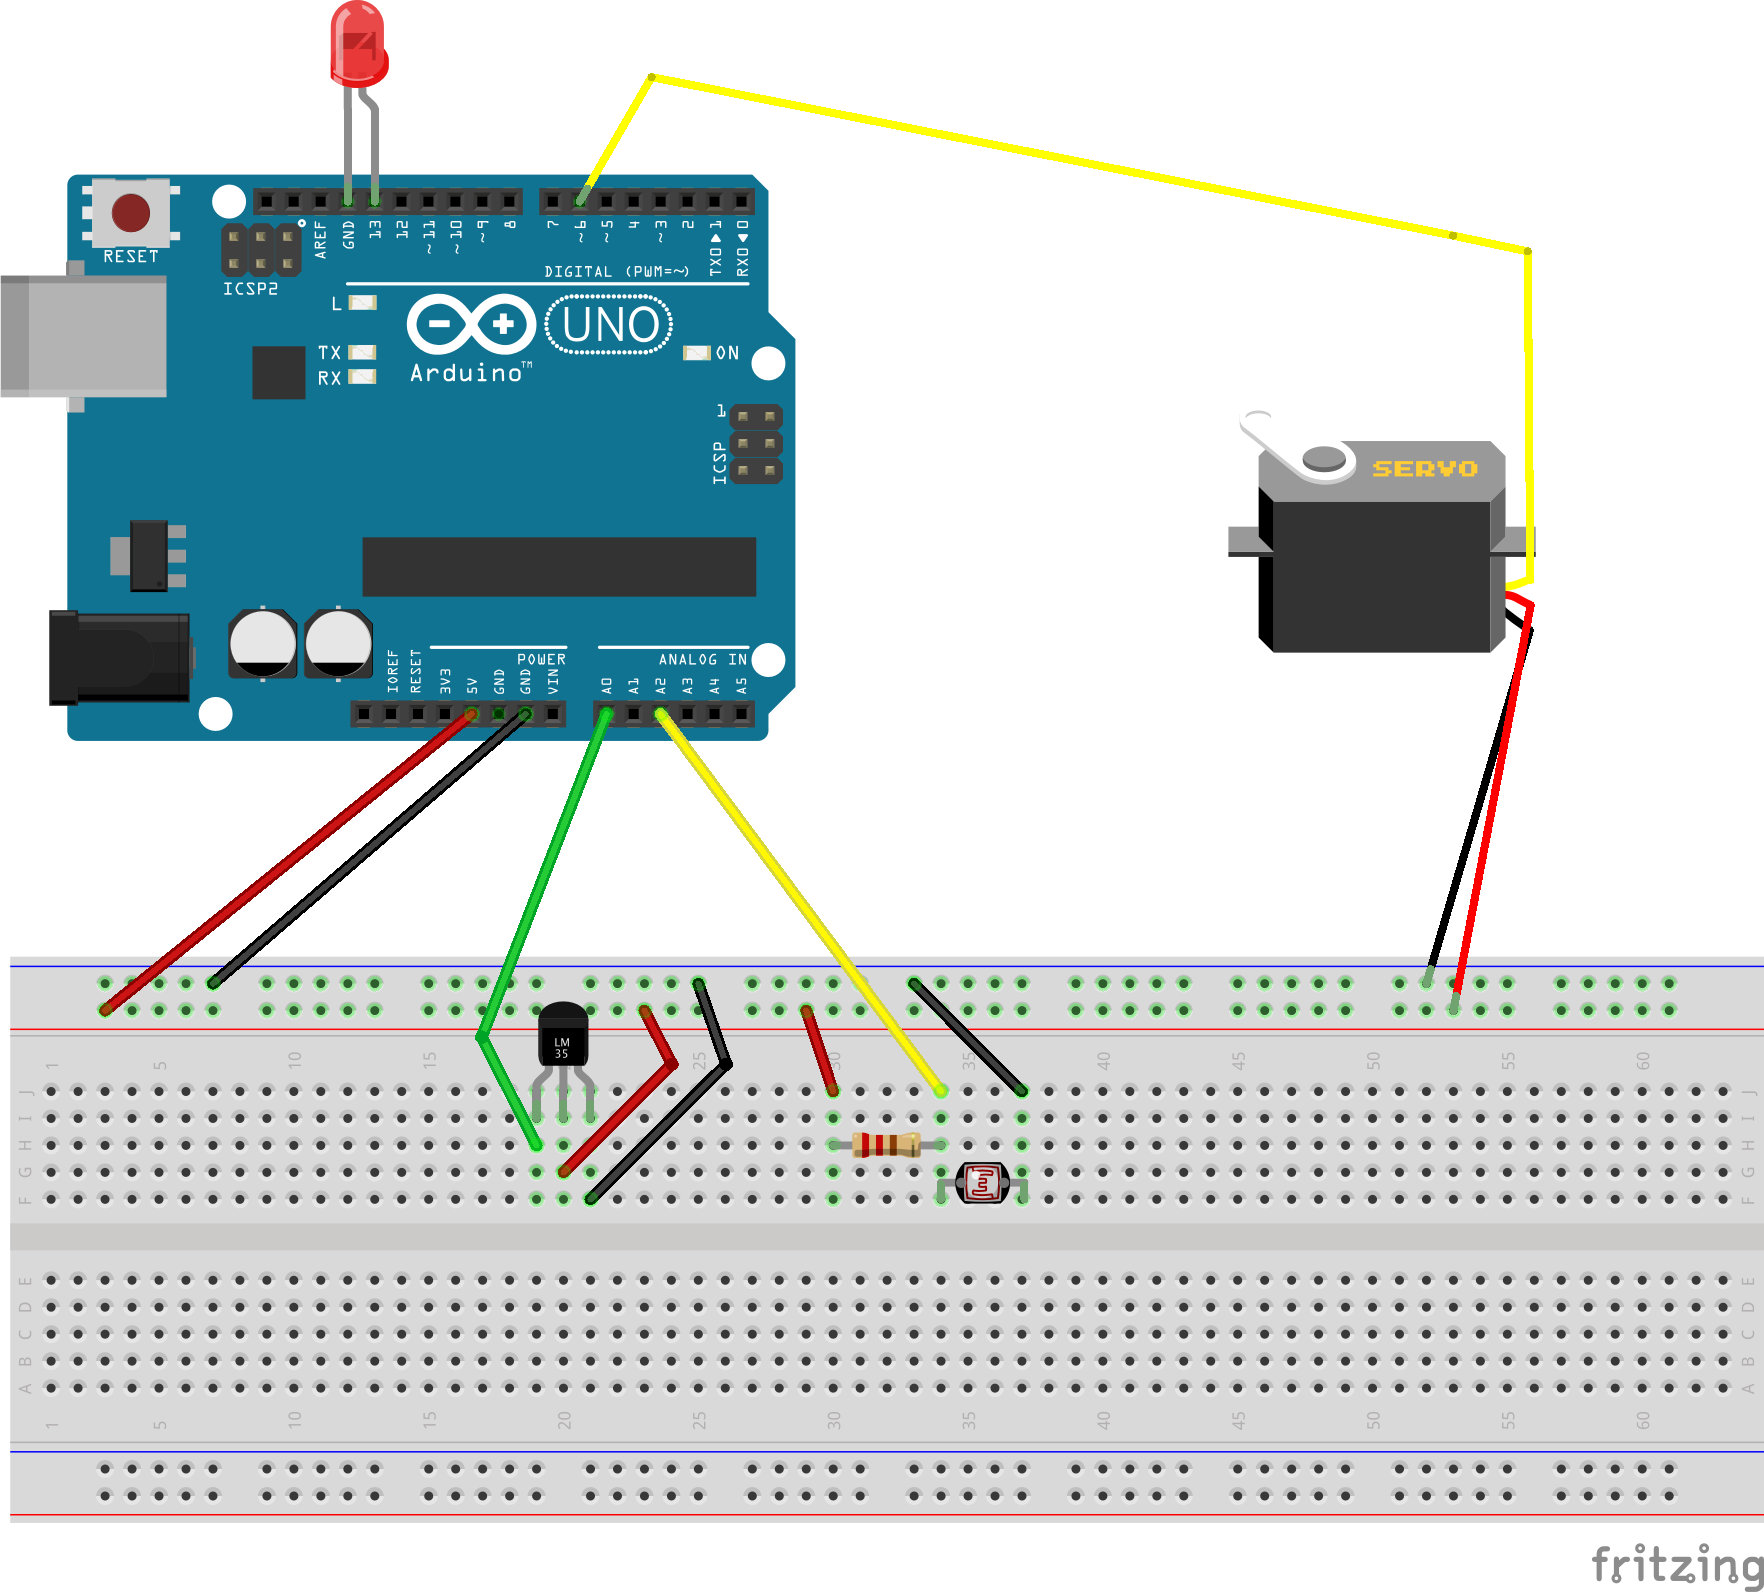
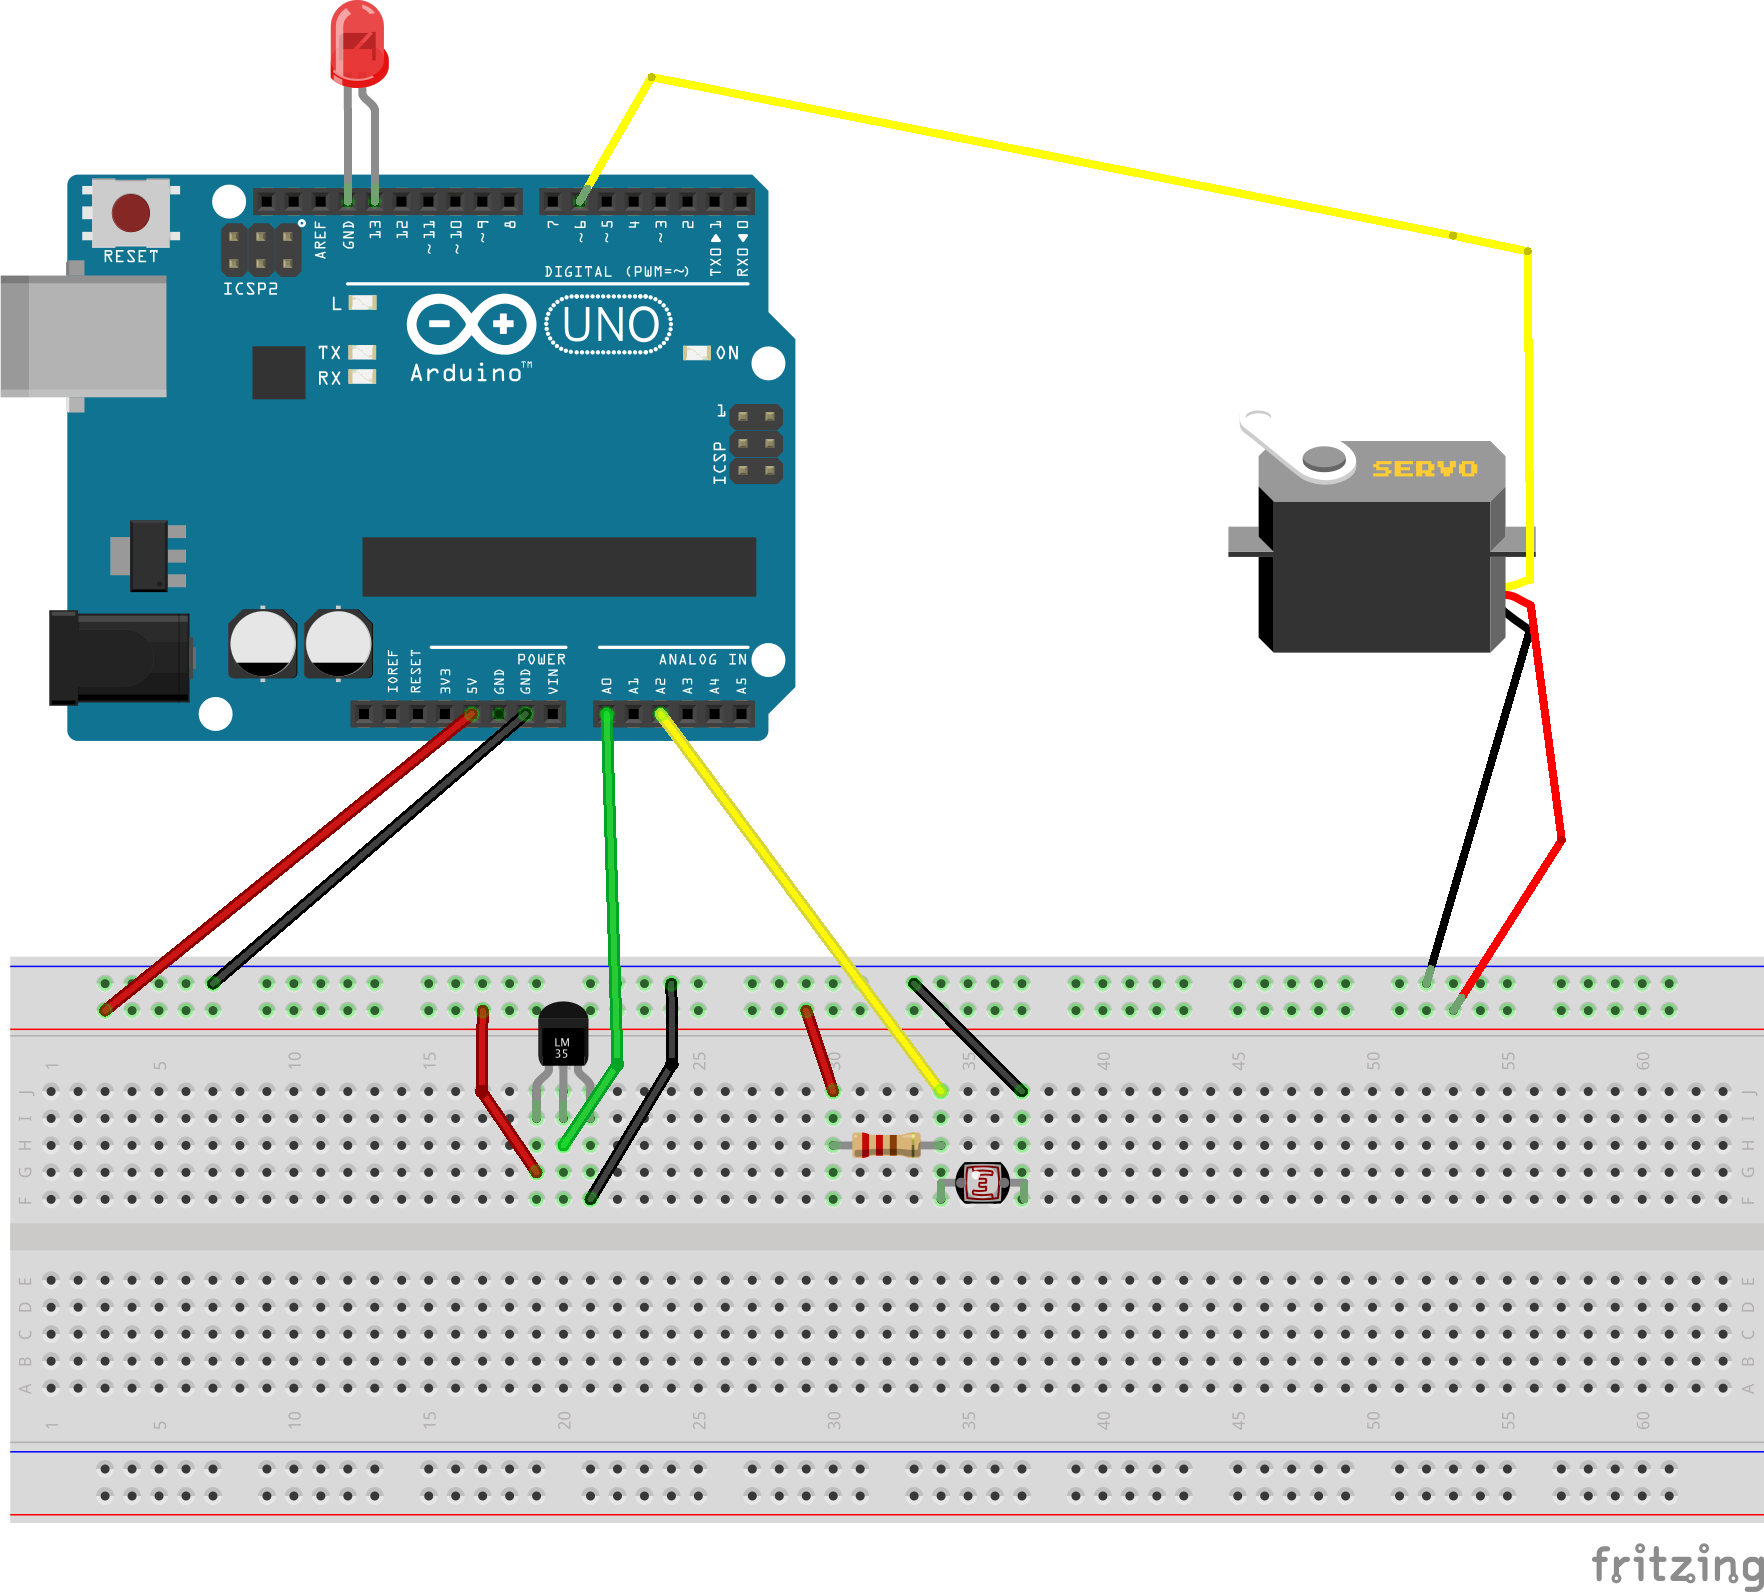
Fixing LM35 schematic. Improving error handling, so that the node app doesn't die when the board is plugged off.

Changed region(s): [[0.2494, 0.4614, 0.4365, 0.7382], [0.8418, 0.3691, 0.9042, 0.5537], [0.8107, 0.5229, 0.873, 0.646]]

diff --git a/driver/things-driver.js b/driver/things-driver.js
@@ -26,131 +26,138 @@ var pubnub = require("pubnub")({
  */
 board.on("ready", function() {
 
-	/*
-	 * Initialise Servo and listen to messages from the servo_channel.
-	 * 
-	 * The agreed message format within the channel is { "action": "turn",
-	 * "angle": 180 }
-	 */
-	var servo = new five.Servo({
-		id : "MyServo",
-		pin : 6,
-		type : "standard",
-		range : [ 0, 180 ],
-		fps : 100,
-		invert : false,
-		startAt : 0,
-		center : true,
-		specs : {
-			speed : five.Servo.Continuous.speeds["@5.0V"]
-		}
-	});
+	try {
 
-	console.log("Subscribing to servo_channel");
-	pubnub.subscribe({
-		channel : "servo_channel",
-		callback : function(message) {
-			console.log("Message >>", message);
-			try {
+		console.log("Starting up ... ");
 
-				// Stop whatever the servo is doing at the moment.
-				servo.stop();
-
-				if (message.action == 'turn') {
-					servo.to(message.angle);
-				}
-
-				if (message.action == 'sweep') {
-					servo.sweep();
-				}
-
-			} catch (e) {
-				console.log("Error: ", e);
-			}
-
-		}
-	});
-
-	/*
-	 * Initialise Thermometer.
-	 * 
-	 * When the sensor emits data, publish to the sensor message channel.
-	 * 
-	 * The agreed message format is { "data" : " XX°C, YYY°F" }
-	 */
-	var thermometer = new five.Thermometer({
-		pin : "A0",
-		controler : "LM35",
-		freq : 2000
-	});
-
-	thermometer.on("data", function() {
-		console.log("Thermometer : " + this.celsius + "°C", this.fahrenheit
-				+ "°F");
-
-		var message = {
-			"data" : this.celsius + "°C, " + this.fahrenheit + "°F"
-		};
-		pubnub.publish({
-			channel : 'thermometer_channel',
-			message : message,
-			error : function(e) {
-				console.log("Failed to publish sensor data.", e);
+		/*
+		 * Initialise Servo and listen to messages from the servo_channel.
+		 * 
+		 * The agreed message format within the channel is { "action": "turn",
+		 * "angle": 180 }
+		 */
+		var servo = new five.Servo({
+			id : "MyServo",
+			pin : 6,
+			type : "standard",
+			range : [ 0, 180 ],
+			fps : 100,
+			invert : false,
+			startAt : 0,
+			center : true,
+			specs : {
+				speed : five.Servo.Continuous.speeds["@5.0V"]
 			}
 		});
-	});
 
-	/*
-	 * Initialise Photoresistor.
-	 * 
-	 * When the sensor emits data, publish to the sensor message channel.
-	 * 
-	 * The agreed message format is { "data" : 0000 }
-	 */
-	var photoresistor = new five.Sensor({
-		pin : "A2",
-		freq : 2000
-	});
+		console.log("Subscribing to servo_channel");
+		pubnub.subscribe({
+			channel : "servo_channel",
+			callback : function(message) {
+				console.log("Message >>", message);
+				try {
 
-	photoresistor.on("data", function() {
-		console.log("Photoresistor : " + this.value);
+					// Stop whatever the servo is doing at the moment.
+					servo.stop();
 
-		var message = {
-			"data" : this.value
-		};
-		pubnub.publish({
-			channel : 'photoresistor_channel',
-			message : message,
-			error : function(e) {
-				console.log("Failed to publish sensor data.", e);
-			}
-		});
-	});
+					if (message.action == 'turn') {
+						servo.to(message.angle);
+					}
 
-	/*
-	 * Initialise the LED on pin 13, default strobe every 1000ms.
-	 * 
-	 * Listen to the messages from the led_channel. The agreed message format
-	 * within the channel is { "action": "led","delay": 1000 }
-	 */
-	var led = new five.Led(13).strobe(1000);
+					if (message.action == 'sweep') {
+						servo.sweep();
+					}
 
-	console.log("Subscribing to led_channel");
-	pubnub.subscribe({
-		channel : "led_channel",
-		callback : function(message) {
-			console.log("Message >>", message);
-			try {
-
-				if (board.isReady) {
-					led.strobe(message.delay);
+				} catch (e) {
+					console.log("Error: ", e);
 				}
 
-			} catch (e) {
-				console.log("Error: ", e);
 			}
+		});
 
-		}
-	});
+		/*
+		 * Initialise Thermometer.
+		 * 
+		 * When the sensor emits data, publish to the sensor message channel.
+		 * 
+		 * The agreed message format is { "data" : " XX°C, YYY°F" }
+		 */
+		var thermometer = new five.Thermometer({
+			pin : "A0",
+			controler : "LM35",
+			freq : 2000
+		});
+
+		thermometer.on("data", function() {
+			console.log("Thermometer : " + this.celsius + "°C", this.fahrenheit
+					+ "°F");
+
+			var message = {
+				"data" : this.celsius + "°C, " + this.fahrenheit + "°F"
+			};
+			pubnub.publish({
+				channel : 'thermometer_channel',
+				message : message,
+				error : function(e) {
+					console.log("Failed to publish sensor data.", e);
+				}
+			});
+		});
+
+		/*
+		 * Initialise Photoresistor.
+		 * 
+		 * When the sensor emits data, publish to the sensor message channel.
+		 * 
+		 * The agreed message format is { "data" : 0000 }
+		 */
+		var photoresistor = new five.Sensor({
+			pin : "A2",
+			freq : 2000
+		});
+
+		photoresistor.on("data", function() {
+			console.log("Photoresistor : " + this.value);
+
+			var message = {
+				"data" : this.value
+			};
+			pubnub.publish({
+				channel : 'photoresistor_channel',
+				message : message,
+				error : function(e) {
+					console.log("Failed to publish sensor data.", e);
+				}
+			});
+		});
+
+		/*
+		 * Initialise the LED on pin 13, default strobe every 1000ms.
+		 * 
+		 * Listen to the messages from the led_channel. The agreed message
+		 * format within the channel is { "action": "led","delay": 1000 }
+		 */
+		var led = new five.Led(13).strobe(1000);
+
+		console.log("Subscribing to led_channel");
+		pubnub.subscribe({
+			channel : "led_channel",
+			callback : function(message) {
+				console.log("Message >>", message);
+				try {
+
+					if (board.isReady) {
+						led.strobe(message.delay);
+					}
+
+				} catch (e) {
+					console.log("Error: ", e);
+				}
+
+			}
+		});
+	} catch (e) {
+		console.log("Error: ", e);
+	}
 
 });
